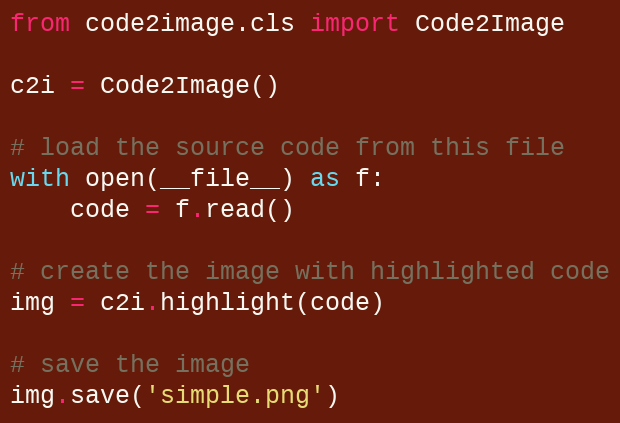
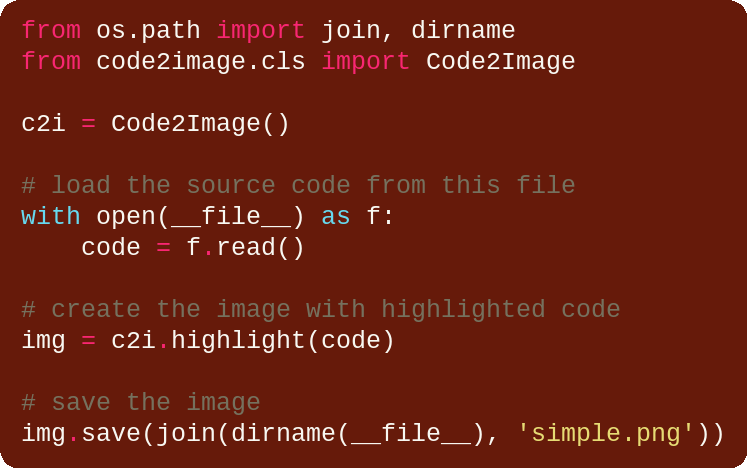
version 0.0.2 :)

diff --git a/code2image/cls.py b/code2image/cls.py
@@ -1,6 +1,6 @@
 
 from pygments import highlight
-from pygments.lexers import PythonLexer
+from pygments.lexers import get_lexer_for_filename, PythonLexer
 from pygments.formatters import ImageFormatter
 from pygments.styles.monokai import MonokaiStyle
 from PIL import Image, ImageDraw, ImageFilter
@@ -10,13 +10,16 @@ from code2image.util import rounded_rectangle
 
 
 class DefaultStyle(MonokaiStyle):
-    background_color = '#661A0A'
+    code_bg = '#661A0A'
 
 
 class Code2ImageBasic(object):
 
     formatter = None
     lexer = None
+
+    def set_lexer_by_filename(self, filename):
+        self.lexer = get_lexer_for_filename(filename)
 
     def get_formatter(self):
         if not self.formatter:
@@ -31,63 +34,99 @@ class Code2ImageBasic(object):
     def highlight(self, code):
         lexer = self.get_lexer()
         fm = self.get_formatter()
-        return Image.open(BytesIO(highlight(code, lexer(), fm)))
+        return Image.open(BytesIO(highlight(code, lexer, fm)))
 
 
 class Code2Image(Code2ImageBasic):
+    """Create a code box with rounded corners and a customized background"""
 
-    formatter = ImageFormatter(
-        font_name="Liberation Mono", line_pad=10,
-        line_numbers=False, style=DefaultStyle, font_size=25)
-
-    lexer = PythonLexer
-
-    def __init__(self, background_color='#661A0A'):
+    def __init__(self, **kwargs):
         super(Code2Image, self).__init__()
-        self.background_color = background_color
+        self.code_bg = kwargs.get('code_bg', '#661A0A')
+
+        self.formatter = ImageFormatter(
+            font_name="Liberation Mono",
+            line_pad=10,
+            line_numbers=False,
+            style=DefaultStyle,
+            font_size=25
+        )
+        self.lexer = PythonLexer()
+
+        for name, attr in kwargs.items():
+            setattr(self, name, attr)
 
     def get_formatter(self):
         style = DefaultStyle
-        style.background_color = self.background_color
+        style.background_color = self.code_bg
         return ImageFormatter(
-            font_name="Liberation Mono", line_pad=10,
-            line_numbers=False, style=style, font_size=25)
-
-
-class Code2ImageShadow(Code2Image):
-
-    def __init__(self, **kwargs):
-        super(Code2ImageShadow, self).__init__(
-            kwargs.get('code_bg', '#661A0A')
+            font_name="Liberation Mono",
+            line_pad=10,
+            line_numbers=False,
+            style=style,
+            font_size=25
         )
-        self.img_bg = kwargs.get('img_bg', '#AAAAAA')
-        self.shadow_dt = kwargs.get('shadow_dt', 4)
-        self.shadow_color = kwargs.get('shadow_color', '#111111')
-        self.offset = kwargs.get('offset', 10)
-        self.blur = kwargs.get('blur', 20)
 
     def highlight(self, code):
         img = super(Code2Image, self).highlight(code)
-        m = round(max(img.size)*(1+(self.offset*0.01)))
-
-        dt = round(m*self.shadow_dt*0.01)
-        blur = round(m*self.blur*0.002)
-
-        box = (
-            ((m-img.size[0]*1.03)//2, (m-img.size[1]*1.03)//2),
-            ((m+img.size[0]*1.03)//2, (m+img.size[1]*1.03)//2)
+        m = tuple([round(s*1.03) for s in img.size])
+        background = Image.new("RGBA", m)
+        draw = ImageDraw.Draw(background)
+        rounded_rectangle(draw, ((0, 0), m), 20, fill=self.code_bg)
+        background.paste(
+            img, ((m[0] - img.size[0]) // 2, (m[1] - img.size[1]) // 2)
         )
+        return background
 
-        background = Image.new("RGB", (m, m), self.img_bg)
+
+class Code2ImageShadow(Code2Image):
+    """Add a shadow to the code box"""
+
+    def __init__(self, **kwargs):
+        super(Code2ImageShadow, self).__init__(**kwargs)
+        self.shadow_dt = kwargs.get('shadow_dt', 2)
+        self.shadow_color = kwargs.get('shadow_color', '#111111')
+        self.blur = kwargs.get('blur', 5)
+
+    def highlight(self, code):
+        img = super(Code2ImageShadow, self).highlight(code)
+        t = max(img.size)
+        m = tuple(
+            [round(s+t*(self.shadow_dt*0.03+self.blur*0.01)) for s in img.size]
+        )
+        box = (
+            ((m[0]-img.size[0])//2, (m[1]-img.size[1])//2),
+            ((m[0]+img.size[0])//2, (m[1]+img.size[1])//2)
+        )
+        dt = round(m[0]*self.shadow_dt*0.01)
+        blur = round(m[0]*self.blur*0.002)
+
+        background = Image.new("RGBA", m)
         draw = ImageDraw.Draw(background)
         rounded_rectangle(
             draw, ((box[0][0]+dt, box[0][1]+dt), (box[1][0]+dt, box[1][1]+dt)),
             20, fill=self.shadow_color
         )
         background = background.filter(ImageFilter.GaussianBlur(blur))
+        background.paste(
+            img, ((m[0] - img.size[0]) // 2, (m[1] - img.size[1]) // 2), img
+        )
+        return background
 
-        draw = ImageDraw.Draw(background)
-        rounded_rectangle(draw, box, 20, fill=self.background_color)
 
-        background.paste(img, ((m - img.size[0]) // 2, (m - img.size[1]) // 2))
+class Code2ImageBackground(Code2ImageShadow):
+
+    def __init__(self, **kwargs):
+        super(Code2ImageBackground, self).__init__(**kwargs)
+        self.offset = kwargs.get('offset', 0)
+        self.img_bg = kwargs.get('img_bg', '#AAAAAA')
+
+    def highlight(self, code):
+        img = super(Code2ImageBackground, self).highlight(code)
+        m = round(max(img.size)*(1+(self.offset*0.01)))
+
+        background = Image.new("RGB", (m, m), self.img_bg)
+        background.paste(
+            img, ((m - img.size[0]) // 2, (m - img.size[1]) // 2), img
+        )
         return background

diff --git a/code2image/cli.py b/code2image/cli.py
@@ -6,7 +6,11 @@ from code2image.cls import Code2ImageShadow
 def main():
     parser = argparse.ArgumentParser(description='Create nice code snippets')
     parser.add_argument('codefile', type=str, help='The code file')
-    parser.add_argument('imagename', type=str, help='The output image')
+
+    parser.add_argument('--kind', default='shadow',
+                        choices=['simple', 'shadow', 'background'],
+                        help='Change the result')
+    parser.add_argument('--imagename', type=str, help='The output image')
 
     parser.add_argument('--code', type=str, default='#661A0A',
                         help='Code background color')
@@ -14,24 +18,32 @@ def main():
                         help='Image background color')
     parser.add_argument('--shadow-color', type=str, default='#111111',
                         help='Shadow color')
-    parser.add_argument('--shadow-dt', type=int, default=4,
+    parser.add_argument('--shadow-dt', type=int, default=2,
                         help='Shadow offset')
-    parser.add_argument('--offset', type=int, default=10, help='Border width')
-    parser.add_argument('--blur', type=int, default=20, help='Shadow blur')
+    parser.add_argument('--offset', type=int, default=0, help='Border width')
+    parser.add_argument('--blur', type=int, default=5, help='Shadow blur')
+    parser.add_argument('--epilog', type=str,
+                        default='\n\n# This image was created with code2image',
+                        help='A epilog')
 
     args = parser.parse_args()
 
-    c2i = Code2ImageShadow(
-        code_bg=args.code,
-        img_bg=args.background,
-        shadow_color=args.shadow_color,
-        shadow_dt=args.shadow_dt,
-        offset=args.offset,
-        blur=args.blur,
-    )
+    kwargs = {
+        'code_bg': args.code,
+        'img_bg': args.background,
+        'shadow_color': args.shadow_color,
+        'shadow_dt': args.shadow_dt,
+        'offset': args.offset,
+        'blur': args.blur,
+    }
 
     with open(args.codefile) as f:
         code = f.read()
 
-    img = c2i.highlight(code)
-    img.save(args.imagename)
+    c2i = Code2ImageShadow(**kwargs)
+    c2i.set_lexer_by_filename(args.codefile)
+
+    img = c2i.highlight(code+args.epilog)
+    filename = args.imagename if args.imagename else 'out.png'
+    img.save(filename)
+    print(f'create code image "{filename}"')

diff --git a/tests/test_cls.py b/tests/test_cls.py
@@ -1,7 +1,10 @@
 import unittest
 from PIL import Image
 
-from code2image.cls import Code2ImageBasic, Code2Image, Code2ImageShadow
+from code2image.cls import Code2ImageBasic
+from code2image.cls import Code2Image
+from code2image.cls import Code2ImageShadow
+from code2image.cls import Code2ImageBackground
 
 
 class TestCode2ImageBasic(unittest.TestCase):
@@ -27,6 +30,16 @@ class TestCode2ImageShadow(unittest.TestCase):
 
     def test_shadow(self):
         t = Code2ImageShadow()
+        img = t.highlight('print("Hello")')
+        self.assertIsInstance(img, Image.Image)
+        self.assertGreater(img.size[0], 0)
+        self.assertGreater(img.size[1], 0)
+
+
+class TestCode2ImageBackground(unittest.TestCase):
+
+    def test_shadow(self):
+        t = Code2ImageBackground()
         img = t.highlight('print("Hello")')
         self.assertIsInstance(img, Image.Image)
         self.assertGreater(img.size[0], 0)

diff --git a/examples/background.py b/examples/background.py
@@ -1,7 +1,7 @@
-from code2image.cls import Code2ImageShadow
+from os.path import join, dirname
+from code2image.cls import Code2ImageBackground
 
-# only change the class to uses create a shadow box
-c2i = Code2ImageShadow()
+c2i = Code2ImageBackground()
 
 # load the source code from this file
 with open(__file__) as f:
@@ -11,4 +11,4 @@ with open(__file__) as f:
 img = c2i.highlight(code)
 
 # save the image
-img.save('shadow-box.png')
+img.save(join(dirname(__file__), 'background.png'))

diff --git a/examples/shadow.py b/examples/shadow.py
@@ -1,7 +1,7 @@
 from os.path import join, dirname
-from code2image.cls import Code2Image
+from code2image.cls import Code2ImageShadow
 
-c2i = Code2Image()
+c2i = Code2ImageShadow()
 
 # load the source code from this file
 with open(__file__) as f:
@@ -11,4 +11,4 @@ with open(__file__) as f:
 img = c2i.highlight(code)
 
 # save the image
-img.save(join(dirname(__file__), 'simple.png'))
+img.save(join(dirname(__file__), 'shadow.png'))

diff --git a/examples/auto_lexer.c b/examples/auto_lexer.c
@@ -1,0 +1,19 @@
+#include<stdio.h>
+#include<time.h>
+#include<windows.h>
+#include <stdlib.h>
+
+int main(){
+  struct tm *tmp;
+  time_t s;
+
+  for(;;){
+    s = time(NULL);
+    tmp = localtime(&t);
+    printf("%d:%0d:%d\n", tmp->tm_hour, tmp->tm_min, tmp->tm_sec);
+    Sleep(1000);
+    system ("cls");
+  }
+
+  return 0;
+}

diff --git a/code2image/__about__.py b/code2image/__about__.py
@@ -2,7 +2,7 @@ __title__ = 'code2image'
 __summary__ = 'Create code snippet with pygments and pillow'
 __url__ = 'https://github.com/axju/code2image'
 
-__version__ = '0.0.1'
+__version__ = '0.0.2'
 
 __author__ = 'Axel Juraske'
 __email__ = 'axel.juraske@short-report.de'

diff --git a/README.rst b/README.rst
@@ -7,8 +7,7 @@ code2image
 
 Create code snippet with pygments and pillow.
 
-.. image:: https://raw.githubusercontent.com/axju/code2image/master/examples/shadow-box-small.png
-   :align: center
+
 
 Install
 -------
@@ -16,16 +15,21 @@ Install
 
   $ pip install code2image
 
+Basic uses
+----------
+.. code-block:: shell
 
-Command line fun
-----------------
+  $ code2image examples/shadow.py
+
+.. image:: https://raw.githubusercontent.com/axju/code2image/master/examples/shadow.png
+   :align: center
+
 This package was developed to automate some boring image creation process. But
 it has also a script for some command line fun.
 
 .. code-block:: shell
 
   $ code2image --help
-  $ code2image path/to/source/code.py path/to/output/image.png
 
 
 Python examples
@@ -97,5 +101,9 @@ Run some tests
 
 .. code-block:: shell
 
-  $ tox
+  $ flake8 code2image
   $ python setup.py test
+  $ python -m unittest discover -v
+  $ tox
+
+I do not know why, but tox will fail :(
